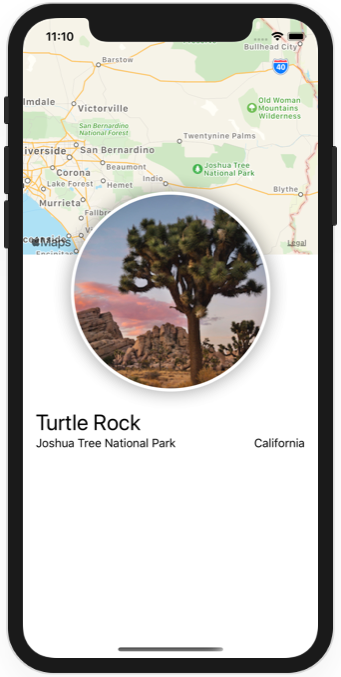
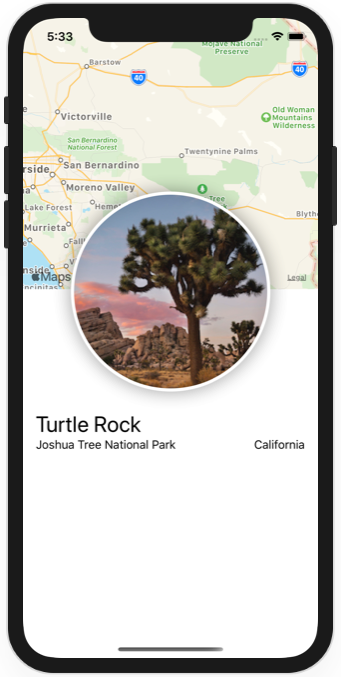
Update to latest version

diff --git a/01-SwiftUIEssentials/02-BuildingListsAndNavigation/StartingPoint/Landmarks/Landmarks/Models/Data.swift b/01-SwiftUIEssentials/02-BuildingListsAndNavigation/StartingPoint/Landmarks/Landmarks/Models/Data.swift
@@ -11,7 +11,7 @@ import CoreLocation
 
 let landmarkData: [Landmark] = load("landmarkData.json")
 
-func load<T: Decodable>(_ filename: String, as type: T.Type = T.self) -> T {
+func load<T: Decodable>(_ filename: String) -> T {
     let data: Data
     
     guard let file = Bundle.main.url(forResource: filename, withExtension: nil)
@@ -34,60 +34,35 @@ func load<T: Decodable>(_ filename: String, as type: T.Type = T.self) -> T {
 }
 
 final class ImageStore {
-    fileprivate typealias _ImageDictionary = [String: [Int: CGImage]]
+    typealias _ImageDictionary = [String: CGImage]
     fileprivate var images: _ImageDictionary = [:]
-    
-    fileprivate static var originalSize = 250
+
     fileprivate static var scale = 2
     
     static var shared = ImageStore()
     
-    func image(name: String, size: Int) -> Image {
-        let index = _guaranteeInitialImage(name: name)
+    func image(name: String) -> Image {
+        let index = _guaranteeImage(name: name)
         
-        let sizedImage = images.values[index][size]
-            ?? _sizeImage(images.values[index][ImageStore.originalSize]!, to: size * ImageStore.scale)
-        images.values[index][size] = sizedImage
-        
-        return Image(sizedImage, scale: CGFloat(ImageStore.scale), label: Text(verbatim: name))
+        return Image(images.values[index], scale: CGFloat(ImageStore.scale), label: Text(name))
     }
-    
-    fileprivate func _guaranteeInitialImage(name: String) -> _ImageDictionary.Index {
-        if let index = images.index(forKey: name) { return index }
-        
+
+    static func loadImage(name: String) -> CGImage {
         guard
             let url = Bundle.main.url(forResource: name, withExtension: "jpg"),
             let imageSource = CGImageSourceCreateWithURL(url as NSURL, nil),
             let image = CGImageSourceCreateImageAtIndex(imageSource, 0, nil)
-            else {
-                fatalError("Couldn't load image \(name).jpg from main bundle.")
+        else {
+            fatalError("Couldn't load image \(name).jpg from main bundle.")
         }
-        
-        images[name] = [ImageStore.originalSize: image]
-        return images.index(forKey: name)!
+        return image
     }
     
-    fileprivate func _sizeImage(_ image: CGImage, to size: Int) -> CGImage {
-        guard
-            let colorSpace = image.colorSpace,
-            let context = CGContext(
-                data: nil,
-                width: size, height: size,
-                bitsPerComponent: image.bitsPerComponent,
-                bytesPerRow: image.bytesPerRow,
-                space: colorSpace,
-                bitmapInfo: image.bitmapInfo.rawValue)
-            else {
-                fatalError("Couldn't create graphics context.")
-        }
-        context.interpolationQuality = .high
-        context.draw(image, in: CGRect(x: 0, y: 0, width: size, height: size))
+    fileprivate func _guaranteeImage(name: String) -> _ImageDictionary.Index {
+        if let index = images.index(forKey: name) { return index }
         
-        if let sizedImage = context.makeImage() {
-            return sizedImage
-        } else {
-            fatalError("Couldn't resize image.")
-        }
+        images[name] = ImageStore.loadImage(name: name)
+        return images.index(forKey: name)!
     }
 }
 

diff --git a/01-SwiftUIEssentials/03-HandlingUserInput/StartingPoint/Landmarks/Landmarks/Models/Data.swift b/01-SwiftUIEssentials/03-HandlingUserInput/StartingPoint/Landmarks/Landmarks/Models/Data.swift
@@ -11,7 +11,7 @@ import CoreLocation
 
 let landmarkData: [Landmark] = load("landmarkData.json")
 
-func load<T: Decodable>(_ filename: String, as type: T.Type = T.self) -> T {
+func load<T: Decodable>(_ filename: String) -> T {
     let data: Data
     
     guard let file = Bundle.main.url(forResource: filename, withExtension: nil)
@@ -44,7 +44,7 @@ final class ImageStore {
     func image(name: String) -> Image {
         let index = _guaranteeImage(name: name)
         
-        return Image(images.values[index], scale: CGFloat(ImageStore.scale), label: Text(verbatim: name))
+        return Image(images.values[index], scale: CGFloat(ImageStore.scale), label: Text(name))
     }
 
     static func loadImage(name: String) -> CGImage {

diff --git a/01-SwiftUIEssentials/02-BuildingListsAndNavigation/StartingPoint/Landmarks/Landmarks/Models/Landmark.swift b/01-SwiftUIEssentials/02-BuildingListsAndNavigation/StartingPoint/Landmarks/Landmarks/Models/Landmark.swift
@@ -23,14 +23,16 @@ struct Landmark: Hashable, Codable, Identifiable {
             longitude: coordinates.longitude)
     }
 
-    func image(forSize size: Int) -> Image {
-        ImageStore.shared.image(name: imageName, size: size)
-    }
-
     enum Category: String, CaseIterable, Codable, Hashable {
         case featured = "Featured"
         case lakes = "Lakes"
         case rivers = "Rivers"
+    }
+}
+
+extension Landmark {
+    var image: Image {
+        ImageStore.shared.image(name: imageName)
     }
 }
 

diff --git a/01-SwiftUIEssentials/02-BuildingListsAndNavigation/StartingPoint/Landmarks/Landmarks/LandmarkDetail.swift b/01-SwiftUIEssentials/02-BuildingListsAndNavigation/StartingPoint/Landmarks/Landmarks/LandmarkDetail.swift
@@ -16,7 +16,7 @@ struct LandmarkDetail: View {
                 .edgesIgnoringSafeArea(.top)
                 .frame(height: 300)
 
-            CircleImage(image: landmark.image(forSize: 250))
+            CircleImage(image: landmark.image)
                 .offset(x: 0, y: -130)
                 .padding(.bottom, -130)
 

diff --git a/01-SwiftUIEssentials/01-CreatingAndCombiningViews/Landmarks/ContentView.swift b/01-SwiftUIEssentials/01-CreatingAndCombiningViews/Landmarks/ContentView.swift
@@ -12,8 +12,8 @@ struct ContentView: View {
     var body: some View {
         VStack {
             MapView()
-                .frame(height: 300)
                 .edgesIgnoringSafeArea(.top)
+                .frame(height: 300)
             
             CircleImage()
                 .offset(y: -130)

diff --git a/01-SwiftUIEssentials/02-BuildingListsAndNavigation/StartingPoint/Landmarks/Landmarks/Landmark Views/LandmarkRow.swift b/01-SwiftUIEssentials/02-BuildingListsAndNavigation/StartingPoint/Landmarks/Landmarks/Landmark Views/LandmarkRow.swift
@@ -13,7 +13,9 @@ struct LandmarkRow: View {
 
     var body: some View {
         HStack {
-            landmark.image(forSize: 50)
+            landmark.image
+                .resizable()
+                .frame(width: 50, height: 50)
             Text(landmark.name)
             Spacer()
         }

diff --git a/01-SwiftUIEssentials/03-HandlingUserInput/StartingPoint/Landmarks/Landmarks/LandmarkDetail.swift b/01-SwiftUIEssentials/03-HandlingUserInput/StartingPoint/Landmarks/Landmarks/LandmarkDetail.swift
@@ -62,6 +62,7 @@ struct LandmarkDetail: View {
 struct LandmarkDetail_Previews: PreviewProvider {
     static var previews: some View {
         LandmarkDetail(landmark: landmarkData[0])
+            .environmentObject(UserData())
     }
 }
 #endif
